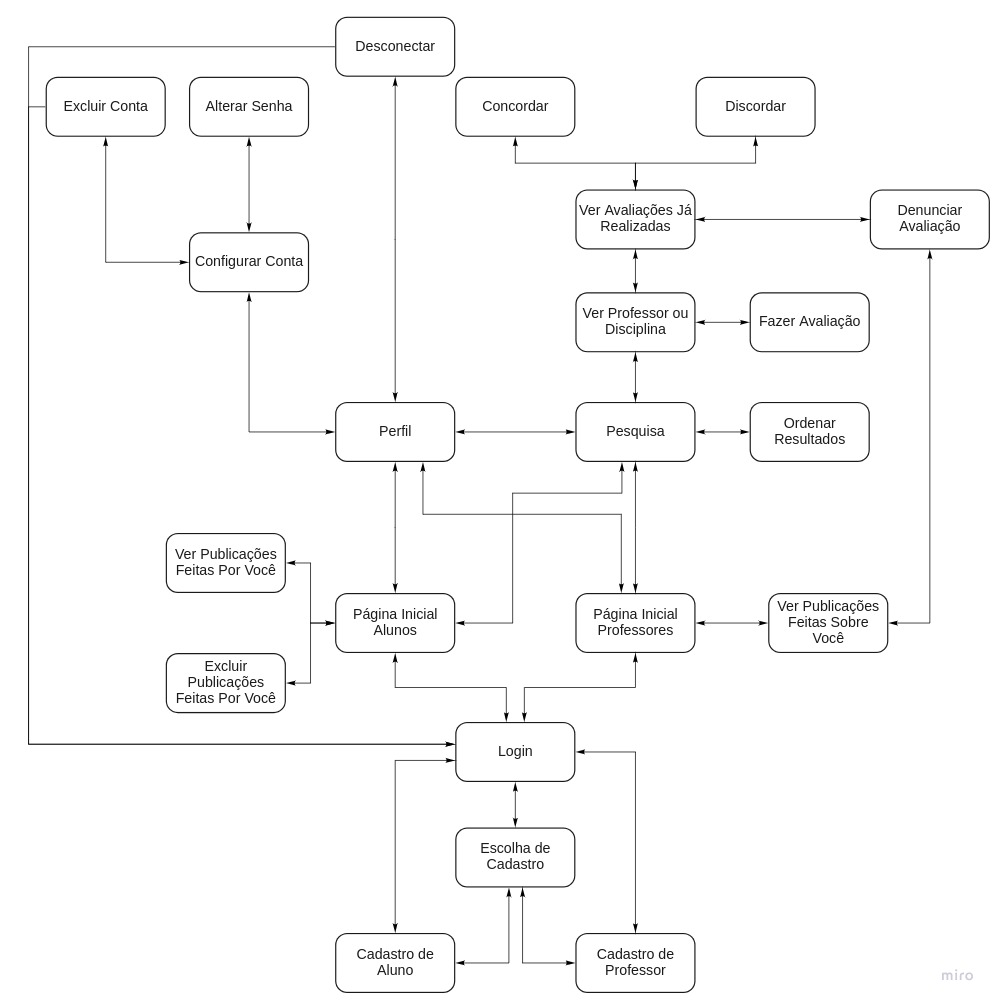
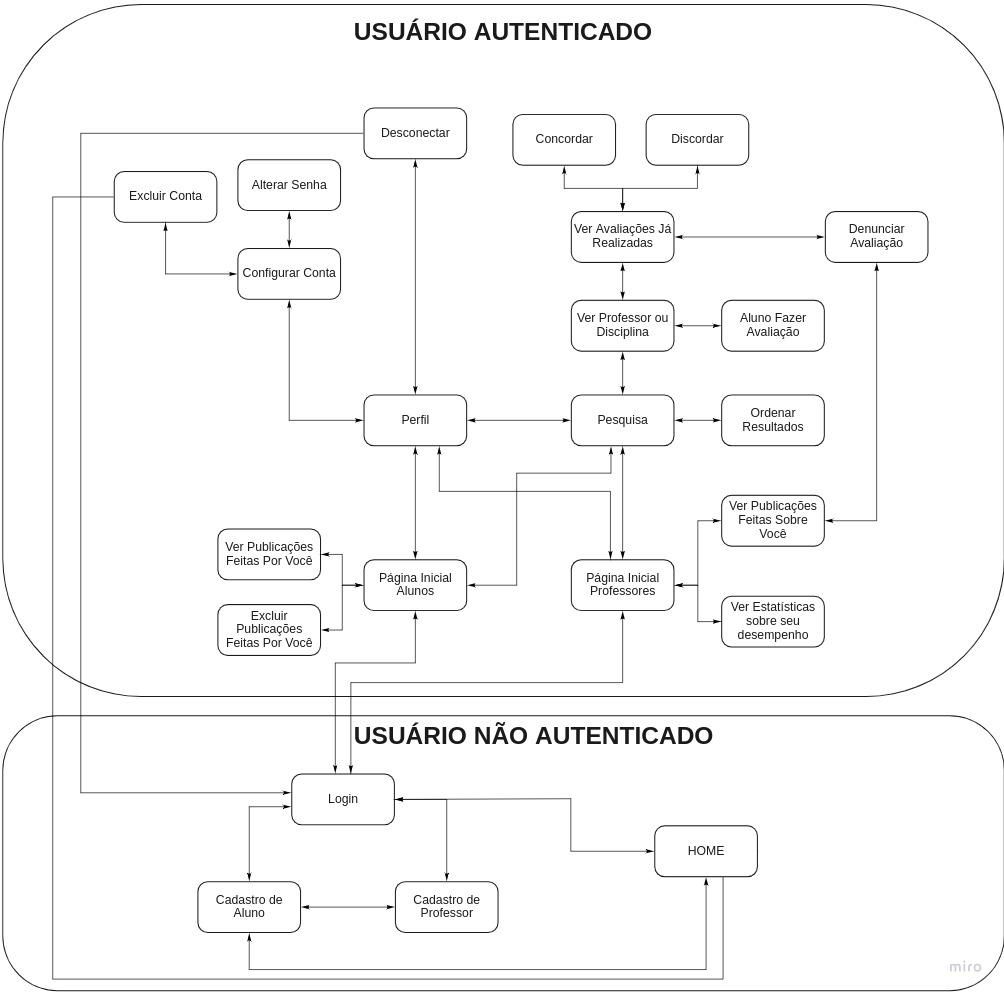
(#169) Atualizando fluxo de usuario

diff --git a/docs/produto/prototipos.md b/docs/produto/prototipos.md
@@ -8,7 +8,8 @@ Data|Versão|Descrição|Autor
 02/03|0.4|Adição das Descrições das Telas|Eduardo e Victor|
 04/03|0.5|Atualização do Protótipo de Baixa Fidelidade, Fluxo de Usuário e Telas|Eduardo|
 09/03|0.6|Atualização das Telas e Adição do Protótipo de Alta Fidelidade|Eduardo|
-27/04|1.0|Lançamento do Protótipo de Alta fidelidade v2.0| Rafael|
+27/04|1.0|Lançamento do Protótipo de Alta fidelidade v2.0| Rafael, Eduardo, Roberto e Victor|
+27/04|1.1|Atualização do fluxo de usuário| Rafael|
 
 
 
@@ -56,15 +57,15 @@ Data|Versão|Descrição|Autor
 
  <p align = "justify"> &emsp;&emsp; <b>Professor:</b>  Feed com as avaliações feitas sobre você, bem como acesso a gráficos e estatísticas gerenciais que auxiliem na compreensão de suas avaliações, bem como seu progresso durante os anos.</p>
 
-### 4.4 <a name="4.4">Resultado da Pesquisa</a>
+### 4.5 <a name="4.5">Resultado da Pesquisa</a>
 
- <p align = "justify"> &emsp;&emsp; Caso o usuário informe o nome ou código da disciplina serão apresentados todos os professores que a ministram, um botão para escolher a ordem de apresentação, as avaliações feitas pelos usuários, botão para denunciar avaliação e um botão para o usuário escrever sua avaliação.  </p>
- <p align = "justify"> &emsp;&emsp; Caso o usuário informe o nome do professor serão apresentadas todas as disciplinas que o professor ministra, um botão para escolher a ordem de apresentação, as avaliações feitas pelos usuários, botão para denunciar avaliação e um botão para o usuário escrever sua avaliação.  </p>
+ <p align = "justify"> &emsp;&emsp; Caso o usuário informe o nome ou código da disciplina serão apresentados todos os professores que a ministram, um botão para escolher a ordem de apresentação, as avaliações feitas pelos usuários, botão para denunciar avaliação e um botão para o aluno escrever sua avaliação.  </p>
+ <p align = "justify"> &emsp;&emsp; Caso o usuário informe o nome do professor serão apresentadas todas as disciplinas que o professor ministra, um botão para escolher a ordem de apresentação, as avaliações feitas pelos usuários, botão para denunciar avaliação e um botão para o aluno escrever sua avaliação.  </p>
 
-### 4.5 <a name="4.5">Criar Avaliação</a>
+### 4.6 <a name="4.6">Criar Avaliação</a>
 
  <p align = "justify"> &emsp;&emsp; Tela onde o usuário irá escrever suas avaliações. Nome do professor e o nome da disciplina serão preenchidos automaticamente, o usuário deverá preencher a nota dada ao professor em diferentes aspectos, escolher se a postagem será pública ou anônima e deverá escrever os comentários.  </p>>
 
-### 4.6 <a name="4.6">Configurar</a>
+### 4.7 <a name="4.7">Configurar</a>
 
- <p align = "justify"> &emsp;&emsp; Onde o usuário poderá ter acesso as funcionalidades dedicadas ao seu perfil como alterar a senha, ver informações sobre o perfil ou excluir a conta.  </p>>
+ <p align = "justify"> &emsp;&emsp; Onde o usuário poderá ter acesso as funcionalidades dedicadas ao seu perfil como alterar a senha, ver informações sobre o perfil, excluir a conta ou desconectar.  </p>>

diff --git a/docs/documentacao/documento-de-arquitetura.md b/docs/documentacao/documento-de-arquitetura.md
@@ -144,7 +144,7 @@ href="https://insights.stackoverflow.com/survey/2020#technology">o favorito do m
 ### 5.1 <a name="5_1">Diagrama de Pacotes</a>
 
 #### 5.1.1 <a name="5_1_1">Front-End</a>
-<div style="display:block;text-align:center"><img src="/2020.2-Anunbis/images/Diagrama_Pacotes_FrontEnd.png" alt="Diagrama de pacotes Front-End"/></div>
+<div style="display:block;text-align:center"><img src="/2020.2-Anunbis/images/diagramaPacotesFrontEnd.png" alt="Diagrama de pacotes Front-End"/></div>
 
 #### 5.1.1.1 <a name="5.1.1.1">Organização das Pastas</a>
 * Assets: Possui a pasta de imagens e a pasta de constantes com arquivos de estilização globais ou recorrentes.
@@ -157,7 +157,7 @@ href="https://insights.stackoverflow.com/survey/2020#technology">o favorito do m
 
 * Routes: Contém os arquivos de rotas do produto.
 #### 5.1.2 <a name="5_1_1">Back-End</a>
-<div style="display:block;text-align:center"><img src="/2020.2-Anunbis/images/Diagrama_Pacotes_BackEnd.png" alt="Diagrama de pacotes Back-End"/></div>
+<div style="display:block;text-align:center"><img src="/2020.2-Anunbis/images/diagramaPacotesBackEnd.png" alt="Diagrama de pacotes Back-End"/></div>
 
 #### 5.1.2.1 <a name="5.1.2.1">Organização das Pastas</a>
 * database: Contem os scrips SQL do banco de dados.
